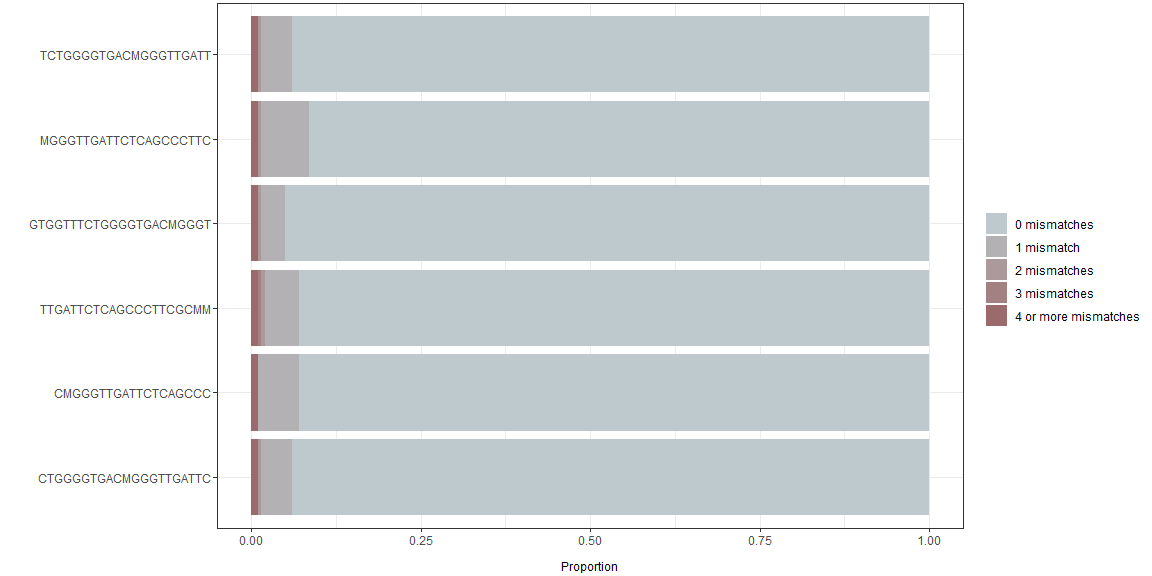
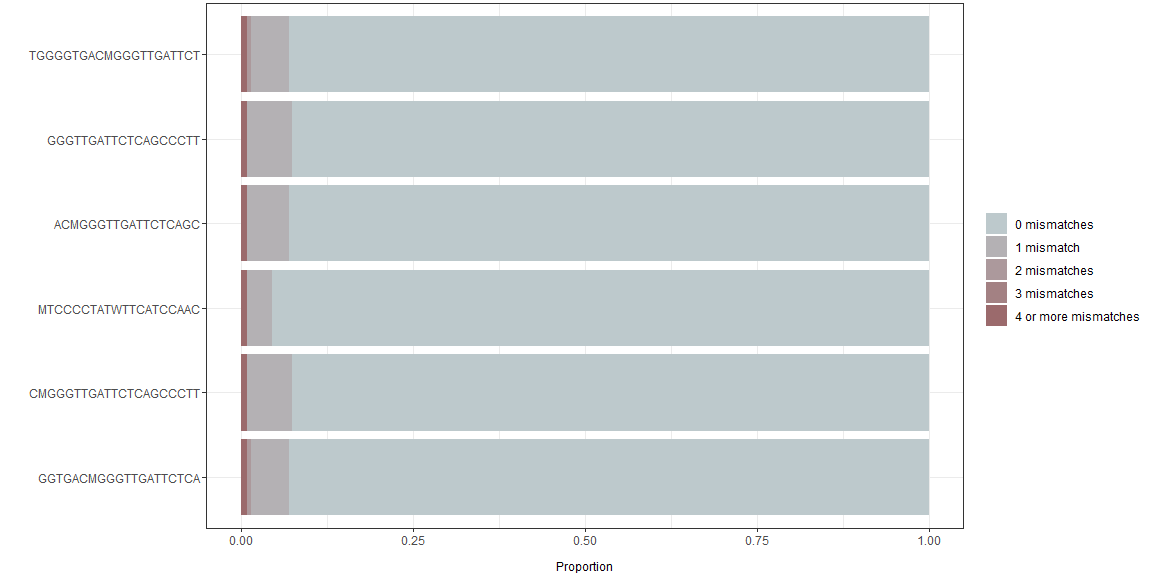
app

Changed region(s): [[0.0312, 0.0312, 0.25, 0.9062], [0.4688, 0.9062, 0.5312, 1.0], [0.3438, 0.9062, 0.375, 0.9688]]

diff --git a/README.md b/README.md
@@ -1,6 +1,10 @@
 
 <!-- README.md is generated from README.Rmd. Please edit that file -->
 
+# rprimer <img src='man/figures/rprimer.png' align="right" height="139" />
+
+*This package is in development*
+
 <!-- badges: start -->
 
 [![R build
@@ -8,8 +12,6 @@ status](https://github.com/sofpn/rprimer/workflows/R-CMD-check/badge.svg)](https
 [![Codecov test
 coverage](https://codecov.io/gh/sofpn/rprimer/branch/master/graph/badge.svg)](https://codecov.io/gh/sofpn/rprimer?branch=master)
 <!-- badges: end -->
-
-*This package is in development*
 
 ## Installation
 
@@ -40,8 +42,7 @@ The design workflow consists of five functions:
 
 ## Shiny application
 
-The design workflow can be run through a Shiny application. It is loaded
-by:
+The package can be run through a Shiny application. It is loaded by:
 
   - `runRprimerApp()`
 
@@ -98,7 +99,7 @@ entire genome:
 plotData(myConsensusProfile)
 ```
 
-<img src="man/figures/README-unnamed-chunk-8-1.png" width="100%" />
+<img src="man/figures/README-unnamed-chunk-7-1.png" width="100%" />
 
 ### Step 2: `oligos`
 
@@ -127,7 +128,7 @@ The results can be visualized as a dashboard, using `plotData()`:
 plotData(myOligos)
 ```
 
-<img src="man/figures/README-unnamed-chunk-11-1.png" width="100%" />
+<img src="man/figures/README-unnamed-chunk-10-1.png" width="100%" />
 
 ### Step 3: `assays`
 
@@ -157,7 +158,7 @@ The assays can be visualized using `plotData()`:
 plotData(myAssays)
 ```
 
-<img src="man/figures/README-unnamed-chunk-14-1.png" width="100%" />
+<img src="man/figures/README-unnamed-chunk-13-1.png" width="100%" />
 
 ### Check match
 
@@ -173,14 +174,14 @@ matchTableOligos <- checkMatch(myOligos[selection, ], target = myAlignment)
 
 Results:
 
-| iupacSequence          | perfectMatch | idPerfectMatch | oneMismatch | idOneMismatch | twoMismatches | idTwoMismatches | threeMismatches | idThreeMismatches | fourOrMoreMismatches | idFourOrMoreMismatches |
-| :--------------------- | -----------: | :------------- | ----------: | :------------ | ------------: | :-------------- | --------------: | :---------------- | -------------------: | :--------------------- |
-| AATTRATTTCGTCGGCYGG    |         0.88 | M73218.1….     |        0.10 | AY575857….    |             0 |                 |            0.01 | MH410175….        |                 0.00 |                        |
-| MGGGTTGATTCTCAGCCCT    |         0.92 | M73218.1….     |        0.06 | AB222183….    |             0 |                 |            0.00 |                   |                 0.01 | MN614142….             |
-| WTTCATCCAACCAACCCC     |         0.94 | M73218.1….     |        0.06 | FJ457024….    |             0 |                 |            0.00 |                   |                 0.01 | MN614142….             |
-| ATTCTCAGCCCTTCGCMMTCCC |         0.94 | M73218.1….     |        0.05 | AB222183….    |             0 |                 |            0.00 | JF443725.1        |                 0.01 | MN614142….             |
-| GGGGTGACMGGGTTGATTCTCA |         0.93 | M73218.1….     |        0.06 | AB222183….    |             0 | JQ953665.1      |            0.00 |                   |                 0.01 | MN614142….             |
-| TTCATCCAACCAACCCCTT    |         0.94 | M73218.1….     |        0.04 | FJ457024….    |             0 |                 |            0.00 |                   |                 0.01 | MN614142….             |
+| iupacSequence         | perfectMatch | idPerfectMatch | oneMismatch | idOneMismatch | twoMismatches | idTwoMismatches | threeMismatches | idThreeMismatches | fourOrMoreMismatches | idFourOrMoreMismatches |
+| :-------------------- | -----------: | :------------- | ----------: | :------------ | ------------: | :-------------- | --------------: | :---------------- | -------------------: | :--------------------- |
+| TGGGGTGACMGGGTTGATTCT |         0.93 | M73218.1….     |        0.06 | AB222183….    |             0 | JQ953665.1      |               0 |                   |                 0.01 | MN614142….             |
+| GGGTTGATTCTCAGCCCTT   |         0.92 | M73218.1….     |        0.06 | AB222183….    |             0 |                 |               0 |                   |                 0.01 | MN614142….             |
+| ACMGGGTTGATTCTCAGC    |         0.93 | M73218.1….     |        0.06 | AB222183….    |             0 |                 |               0 |                   |                 0.01 | MN614142….             |
+| MTCCCCTATWTTCATCCAAC  |         0.96 | M73218.1….     |        0.04 | JF443725….    |             0 |                 |               0 |                   |                 0.01 | MN614142….             |
+| CMGGGTTGATTCTCAGCCCTT |         0.92 | M73218.1….     |        0.06 | AB222183….    |             0 |                 |               0 |                   |                 0.01 | MN614142….             |
+| GGTGACMGGGTTGATTCTCA  |         0.93 | M73218.1….     |        0.06 | AB222183….    |             0 | JQ953665.1      |               0 |                   |                 0.01 | MN614142….             |
 
 The match table can be visualized using `plotData()`:
 
@@ -188,7 +189,7 @@ The match table can be visualized using `plotData()`:
 plotData(matchTableOligos)
 ```
 
-<img src="man/figures/README-unnamed-chunk-17-1.png" width="100%" />
+<img src="man/figures/README-unnamed-chunk-16-1.png" width="100%" />
 
 ## More information
 
